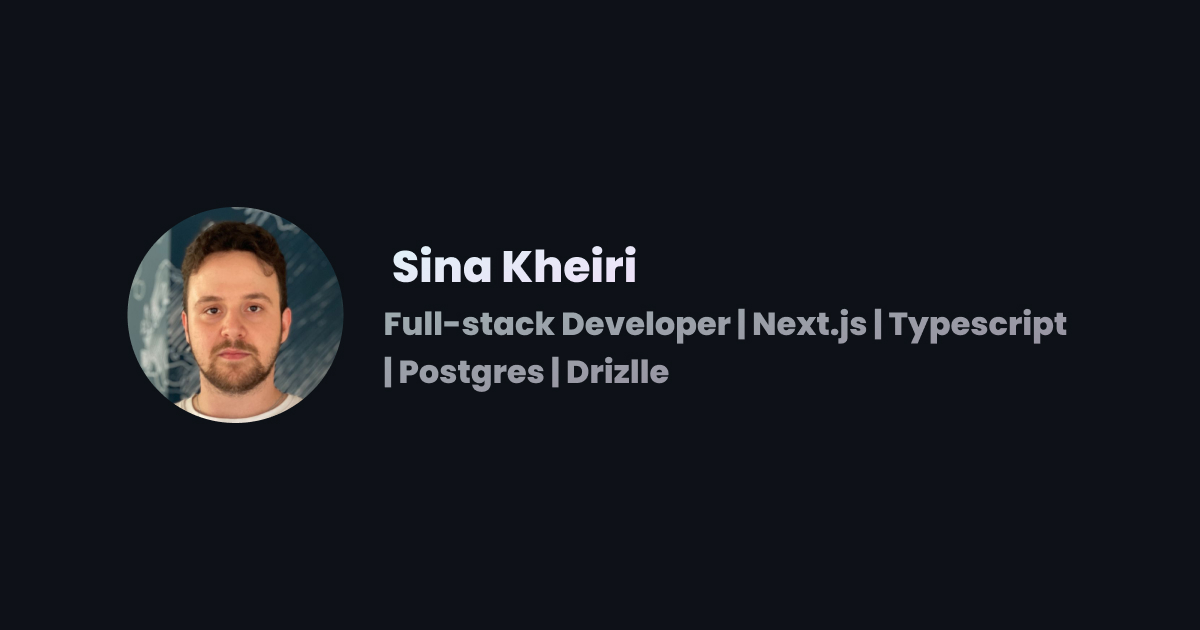
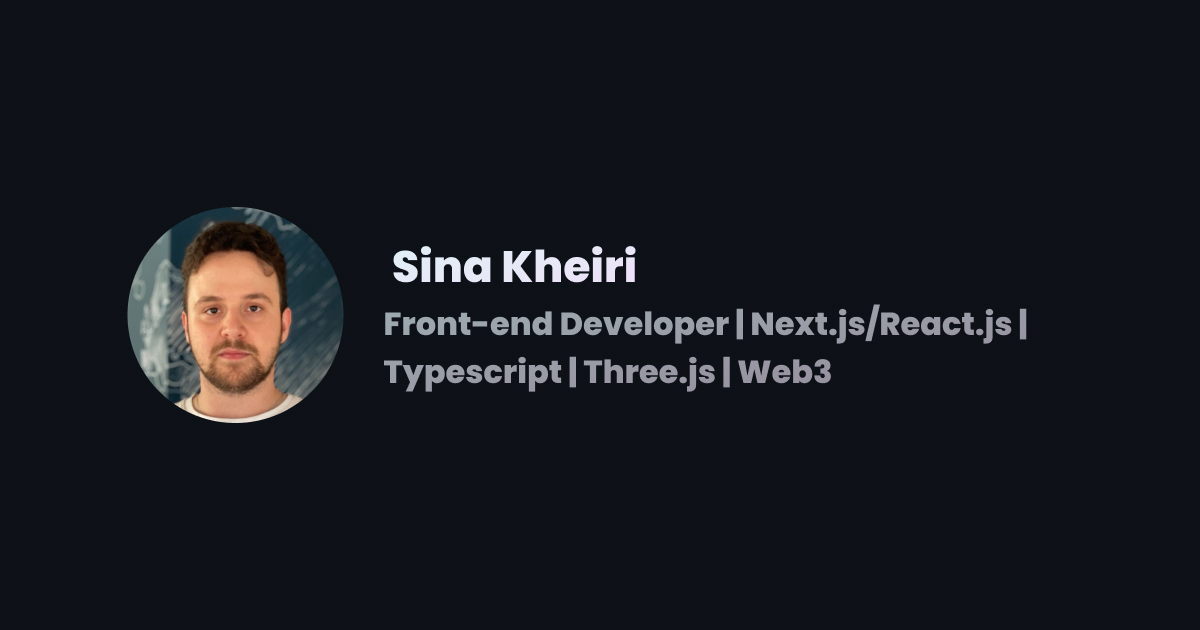
fix: revert data

Changed region(s): [[0.3392, 0.4825, 0.8942, 0.5429], [0.3083, 0.573, 0.7092, 0.6333]]

diff --git a/src/data/summary.tsx b/src/data/summary.tsx
@@ -21,14 +21,12 @@ export const summary: SummaryInterface = {
   image: photo,
   content: (
     <>
-      I am <span className={styles.accent}>Sina Kheiri</span>, a full-stack developer with{' '}
-      <span className={styles.bold}>5 years of experience</span> in building performant{' '}
+      I am <span className={styles.accent}>Sina Kheiri</span>, a front-end developer with{' '}
+      <span className={styles.bold}>5 years of experience</span> building performant and seamless{' '}
       applications. Skilled in <span className={styles.bold}>Next.js</span> and{' '}
-      <span className={styles.bold}>TypeScript</span> with more focus on front-end. Experienced in{' '}
-      back-end projects using <span className={styles.bold}>Postgres</span> paired with{' '}
-      <span className={styles.bold}>Drizzle</span>. Committed to staying up-to-date and having an{' '}
-      eye for detail while operating in fast-paced and <span className={styles.bold}>Agile</span>{' '}
-      environments.
+      <span className={styles.bold}>TypeScript</span>, with experience in fast-paced and{' '}
+      <span className={styles.bold}>Agile</span> environments. Committed to always staying{' '}
+      up-to-date and having an eye for detail.
     </>
   ),
   links: [

diff --git a/src/components/utils/CustomHead.tsx b/src/components/utils/CustomHead.tsx
@@ -15,9 +15,9 @@ export default function CustomHead(props: CustomHeadProps) {
   const router = useRouter()
 
   const seo = {
-    title: 'Full-stack Developer | Next.js | Typescript | Postgres | Drizlle',
+    title: 'Front-end Developer | Next.js/React.js | Typescript | Three.js | Web3',
     description:
-      'Full-stack developer with 5 years of experience in building performant applications. Skilled in Next.js and TypeScript with more focus on front-end. Experienced in back-end projects using Postgres paired with Drizzle. Committed to staying up-to-date and having an eye for detail while operating in fast paced and Agile environments.',
+      'Front-end developer with 5 years of experience building performant and seamless applications. Skilled in Next.js and TypeScript, with experience in fast paced and Agile environments. Committed to always staying up-to-date and having an eye for detail. ',
     url: router.asPath,
     image: preview.src,
     twitterCardType: 'summary',
@@ -25,8 +25,8 @@ export default function CustomHead(props: CustomHeadProps) {
       'Sina',
       'Kheiri',
       'Portfonext',
-      'Full-stack',
       'Front-end',
+      'Full-stack',
       'Back-end',
       'Next.js',
       'React.js',

diff --git a/src/data/hero.tsx b/src/data/hero.tsx
@@ -3,5 +3,5 @@ export interface HeroInterface {
 }
 
 export const hero: HeroInterface = {
-  content: <>Full-stack Developer | Next.js | Typescript | Postgres | Drizlle</>,
+  content: <>Front-end Developer | Next.js/React.js | Typescript | Three.js | Web3</>,
 }
